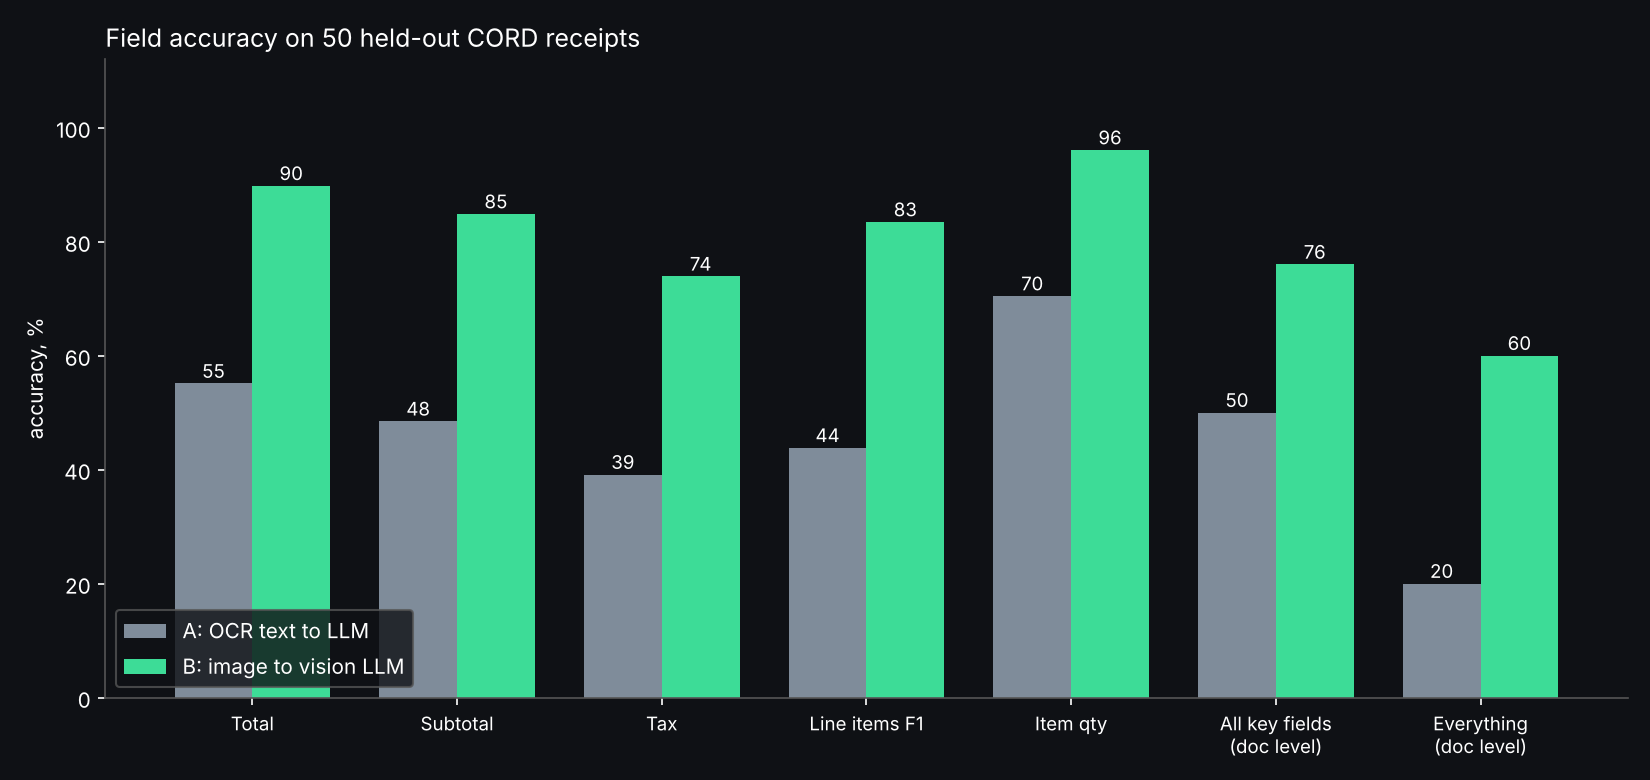
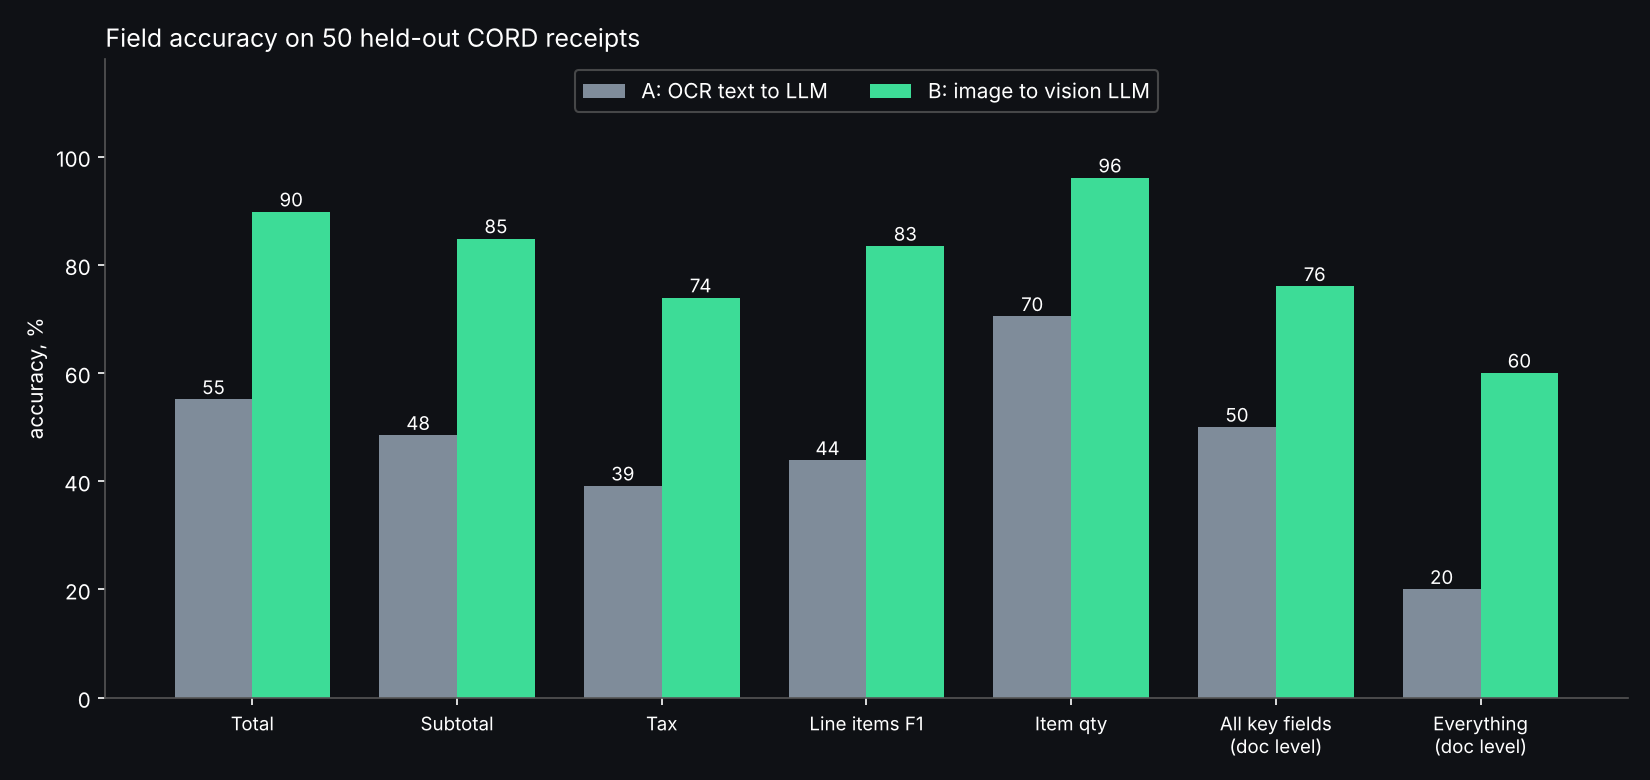
add side-by-side, cover and demo gif assets

diff --git a/assets/record_demo.js b/assets/record_demo.js
@@ -1,0 +1,22 @@
+// Drives the Streamlit UI with Playwright and saves PNG frames; make_gif.py stitches them.
+const { chromium } = require('/opt/node22/lib/node_modules/playwright');
+const out = process.argv[2];
+(async () => {
+  const b = await chromium.launch();
+  const p = await b.newPage({ viewport: { width: 1280, height: 900 } });
+  let n = 0;
+  const snap = async () => p.screenshot({ path: `${out}/f${String(n++).padStart(3, '0')}.png` });
+  await p.goto('http://localhost:8501'); await p.waitForSelector('text=Upload a receipt');
+  await p.waitForTimeout(1000); await snap(); await snap();
+  await p.setInputFiles('input[type=file]', 'assets/sample_receipt.png');
+  for (let i = 0; i < 4; i++) { await p.waitForTimeout(500); await snap(); }
+  await p.waitForSelector('text=Needs review', { timeout: 90000 });
+  await p.waitForTimeout(800);
+  for (let i = 0; i < 5; i++) { await snap(); await p.waitForTimeout(300); }
+  await p.mouse.wheel(0, 500); await p.waitForTimeout(600);
+  for (let i = 0; i < 3; i++) { await snap(); await p.waitForTimeout(300); }
+  const dl = p.waitForEvent('download');
+  await p.click('text=Download CSV'); await dl; await p.waitForTimeout(500);
+  for (let i = 0; i < 4; i++) { await snap(); await p.waitForTimeout(300); }
+  await b.close();
+})();

diff --git a/assets/make_assets.py b/assets/make_assets.py
@@ -1,0 +1,83 @@
+"""Render side_by_side.png and cover_1600x1200.png from the eval summary and one pipeline run."""
+import json
+import sys
+from pathlib import Path
+
+from PIL import Image, ImageDraw, ImageFont
+
+ROOT = Path(__file__).resolve().parent.parent
+sys.path.insert(0, str(ROOT))
+from docextract.pipeline import process_image  # noqa: E402
+
+BG, FG, DIM, GREEN, RED = (15, 17, 21), (240, 242, 245), (150, 158, 170), (61, 220, 151), (240, 90, 90)
+
+
+def font(size, bold=False):
+    name = "DejaVuSans-Bold.ttf" if bold else "DejaVuSans.ttf"
+    return ImageFont.truetype(f"/usr/share/fonts/truetype/dejavu/{name}", size)
+
+
+def side_by_side():
+    out = process_image(Image.open(ROOT / "assets/sample_receipt.png").convert("RGB"), "text")
+    img = out.image.copy()
+    d = ImageDraw.Draw(img)
+    for w in out.ocr.words:
+        d.rectangle([w.x, w.y, w.x + w.w, w.y + w.h], outline=(230, 30, 30), width=2)
+    H = 900
+    img = img.resize((int(img.width * H / img.height), H))
+    doc, val = out.result.document, out.result.validation
+    W = img.width + 760
+    canvas = Image.new("RGB", (W, H + 80), BG)
+    canvas.paste(img, (20, 70))
+    c = ImageDraw.Draw(canvas)
+    c.text((20, 20), "OCR word boxes (Tesseract)", font=font(22, True), fill=FG)
+    x = img.width + 60
+    c.text((x, 20), "Extracted fields + validation", font=font(22, True), fill=FG)
+    y = 80
+    for k in ["currency", "subtotal", "tax", "total"]:
+        bad = k in val.bad_fields
+        c.text((x, y), f"{k}", font=font(20), fill=DIM)
+        c.text((x + 200, y), str(getattr(doc, k)), font=font(20, True), fill=RED if bad else FG)
+        y += 38
+    y += 10
+    c.text((x, y), "line_items", font=font(20), fill=DIM)
+    for it in doc.line_items:
+        c.text((x + 200, y), f"{it.description}  {it.amount:g}", font=font(20, True), fill=FG)
+        y += 38
+    y += 30
+    c.rounded_rectangle([x, y, W - 30, y + 150], 10, outline=RED if val.needs_review else GREEN, width=3)
+    c.text((x + 18, y + 14), "NEEDS REVIEW" if val.needs_review else "AUTO-APPROVED", font=font(24, True),
+           fill=RED if val.needs_review else GREEN)
+    for n, i in enumerate(val.issues[:2]):
+        c.text((x + 18, y + 56 + 36 * n), i.message[:52], font=font(17), fill=FG)
+    canvas.save(ROOT / "assets/side_by_side.png")
+    print(doc.total, [i.message for i in val.issues])
+
+
+def cover():
+    S = {s["mode"]: s for s in json.loads((ROOT / "eval/summary.json").read_text())}
+    A, B = S["text"], S["vision"]
+    im = Image.new("RGB", (1600, 1200), BG)
+    d = ImageDraw.Draw(im)
+    d.text((100, 130), "Invoices & receipts", font=font(92, True), fill=FG)
+    d.text((100, 245), "→ clean data", font=font(92, True), fill=GREEN)
+    d.text((100, 390), "OCR + LLM extraction with validation and a review flag", font=font(34), fill=DIM)
+    stats = [(f"{100 * B['total_acc']:.0f}%", "total amount correct\n(vision mode)"),
+             (f"{100 * B['auto_approved_pct']:.0f}%", "auto-approved,\nrest flagged for review"),
+             (f"${B['cost_per_100']:.2f}", "LLM cost per 100\nreceipts (vision)")]
+    for n, (big, small) in enumerate(stats):
+        x = 100 + n * 480
+        d.rounded_rectangle([x, 560, x + 430, 860], 20, fill=(26, 29, 36))
+        d.text((x + 36, 600), big, font=font(100, True), fill=GREEN)
+        d.multiline_text((x + 36, 740), small, font=font(28), fill=FG, spacing=8)
+    d.text((100, 940), f"Measured on {B['docs']} held-out CORD receipts, claude-haiku-4.5. "
+                       f"OCR-text mode: {100 * A['total_acc']:.0f}% totals, ${A['cost_per_100']:.2f} per 100.",
+           font=font(26), fill=DIM)
+    d.text((100, 1010), "Tesseract OCR  |  Pydantic schema  |  FastAPI  |  Streamlit  |  Docker", font=font(26), fill=DIM)
+    d.text((100, 1090), "Demo on public data (CORD, CC-BY-4.0)", font=font(24), fill=DIM)
+    im.save(ROOT / "assets/cover_1600x1200.png")
+
+
+if __name__ == "__main__":
+    side_by_side()
+    cover()

diff --git a/eval/report.py b/eval/report.py
@@ -76,9 +76,9 @@ for bars in (b1, b2):
     for b in bars:
         ax.text(b.get_x() + b.get_width() / 2, b.get_height() + 1, f"{b.get_height():.0f}", ha="center", color="white", fontsize=9)
 ax.set_xticks(list(x)); ax.set_xticklabels(labels, color="white", fontsize=9)
-ax.set_ylim(0, 112); ax.set_ylabel("accuracy, %", color="white"); ax.tick_params(colors="white")
+ax.set_ylim(0, 118); ax.set_ylabel("accuracy, %", color="white"); ax.tick_params(colors="white")
 for s in ("top", "right"): ax.spines[s].set_visible(False)
 for s in ("left", "bottom"): ax.spines[s].set_color("#555")
 ax.set_title(f"Field accuracy on {A['docs']} held-out CORD receipts", color="white", loc="left")
-ax.legend(facecolor="#0f1115", labelcolor="white", edgecolor="#555", loc="lower left")
+ax.legend(facecolor="#0f1115", labelcolor="white", edgecolor="#555", loc="upper center", ncol=2, bbox_to_anchor=(0.5, 1.0))
 fig.tight_layout(); fig.savefig(ROOT / "assets" / "accuracy_chart.png")

diff --git a/assets/make_gif.py b/assets/make_gif.py
@@ -1,0 +1,11 @@
+"""Stitch Playwright frames into demo.gif (frames dir given as argv[1])."""
+import sys
+from pathlib import Path
+
+from PIL import Image
+
+frames = sorted(Path(sys.argv[1]).glob("f*.png"))
+ims = [Image.open(f).convert("RGB").resize((960, 675)) for f in frames]
+ims = [i.quantize(128, dither=Image.Dither.NONE) for i in ims]
+ims[0].save(Path(__file__).parent / "demo.gif", save_all=True, append_images=ims[1:], duration=1000, loop=0, optimize=True)
+print(len(ims), "frames")
